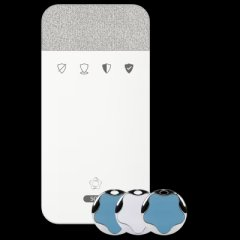
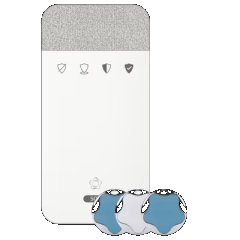
fix: imágenes sin fondo, Aquila=negro Fotodetector=blanco, mapeo correcto por dispositivo

diff --git a/src/lib/verisure-defaults.ts b/src/lib/verisure-defaults.ts
@@ -3,9 +3,9 @@ import type { ConfigVerisure, DispositivoExtra } from '@/types'
 // Mapa de imágenes por nombre de dispositivo
 export const DEVICE_IMAGES: Record<string, string> = {
   'Shock Sensor':              '/devices/shock-sensor.png',
-  'Orion':                     '/devices/orion.png',
-  'Orion Close Pack':          '/devices/orion.png',
-  'Aquila Outdoor':            '/devices/fotodetector.png',
+  'Orion':                     '/devices/aquila.png',       // negro
+  'Orion Close Pack':          '/devices/fotodetector.png', // blanco
+  'Aquila Outdoor':            '/devices/aquila.png',       // negro
   'Arlo Indoor':               '/devices/arlo-indoor.png',
   'Arlo Outdoor':              '/devices/arlo-outdoor.png',
   'Zerovision':                '/devices/zerovision.png',
